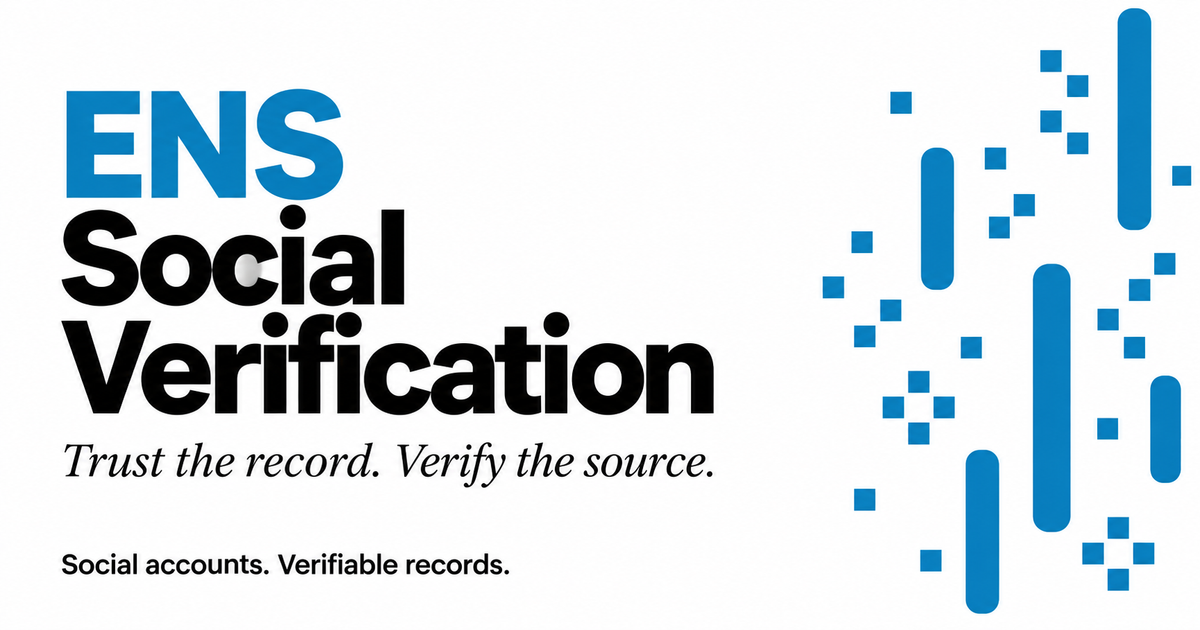
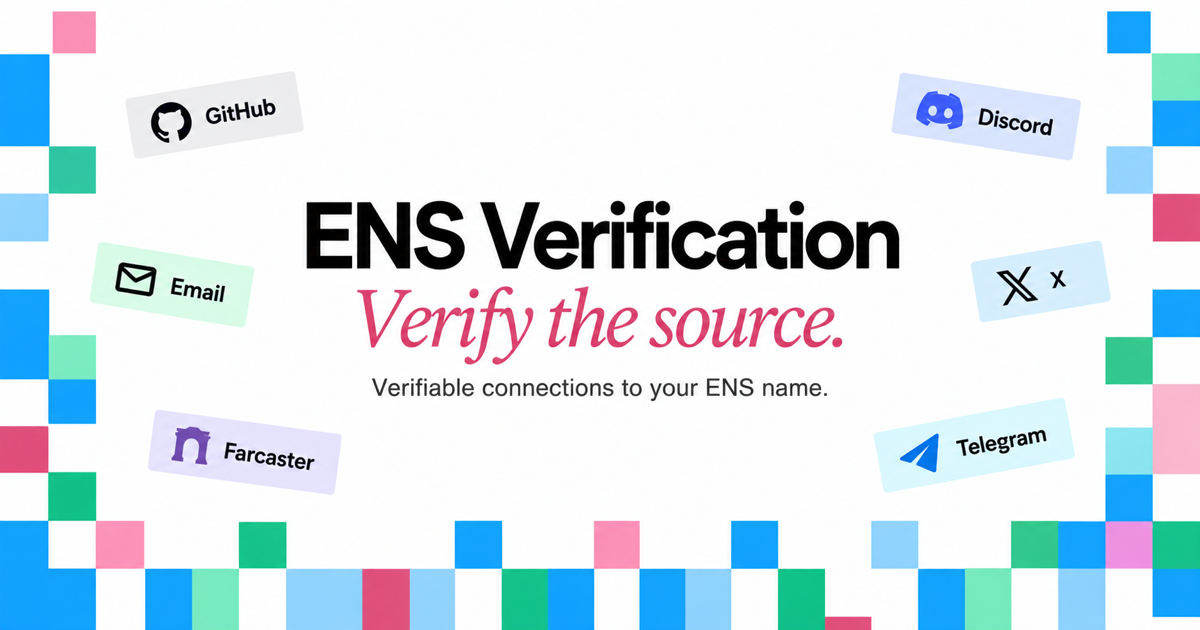
feat(web): refresh social preview for new hero

diff --git a/apps/web/index.html b/apps/web/index.html
@@ -30,14 +30,14 @@
       content="Trust the record. Verify the source. Link social accounts and email to your ENS name with verifiable records."
     />
     <meta property="og:url" content="__SITE_URL__/" />
-    <meta property="og:image" content="__SITE_URL__/og-image.png" />
-    <meta property="og:image:secure_url" content="__SITE_URL__/og-image.png" />
+    <meta property="og:image" content="__SITE_URL__/og-image.png?v=hero-2" />
+    <meta property="og:image:secure_url" content="__SITE_URL__/og-image.png?v=hero-2" />
     <meta property="og:image:type" content="image/png" />
     <meta property="og:image:width" content="1200" />
     <meta property="og:image:height" content="630" />
     <meta
       property="og:image:alt"
-      content="ENS Social Verification. Trust the record. Verify the source."
+      content="ENS Verification. Verify the source. Verifiable connections to your ENS name."
     />
     <meta name="twitter:card" content="summary_large_image" />
     <meta name="twitter:title" content="ENS Social Verification" />
@@ -45,10 +45,10 @@
       name="twitter:description"
       content="Trust the record. Verify the source. Link social accounts and email to your ENS name with verifiable records."
     />
-    <meta name="twitter:image" content="__SITE_URL__/og-image.png" />
+    <meta name="twitter:image" content="__SITE_URL__/og-image.png?v=hero-2" />
     <meta
       name="twitter:image:alt"
-      content="ENS Social Verification. Trust the record. Verify the source."
+      content="ENS Verification. Verify the source. Verifiable connections to your ENS name."
     />
     <script type="application/ld+json">
       {
@@ -58,7 +58,7 @@
         "url": "__SITE_URL__/",
         "description": "Link social accounts and email to your ENS name with verifiable records.",
         "inLanguage": "en",
-        "image": "__SITE_URL__/og-image.png"
+        "image": "__SITE_URL__/og-image.png?v=hero-2"
       }
     </script>
   </head>
